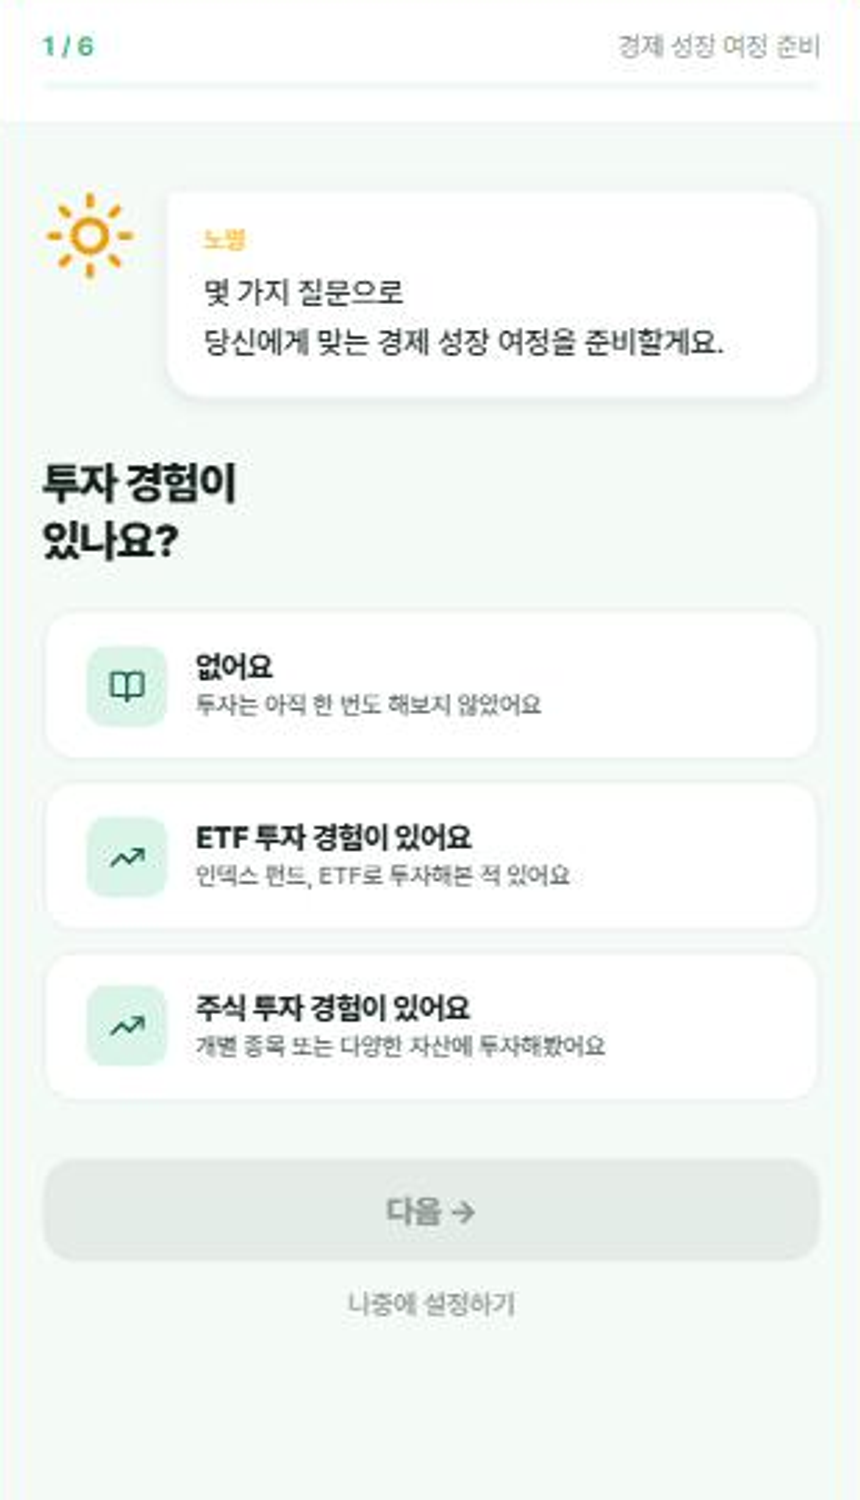
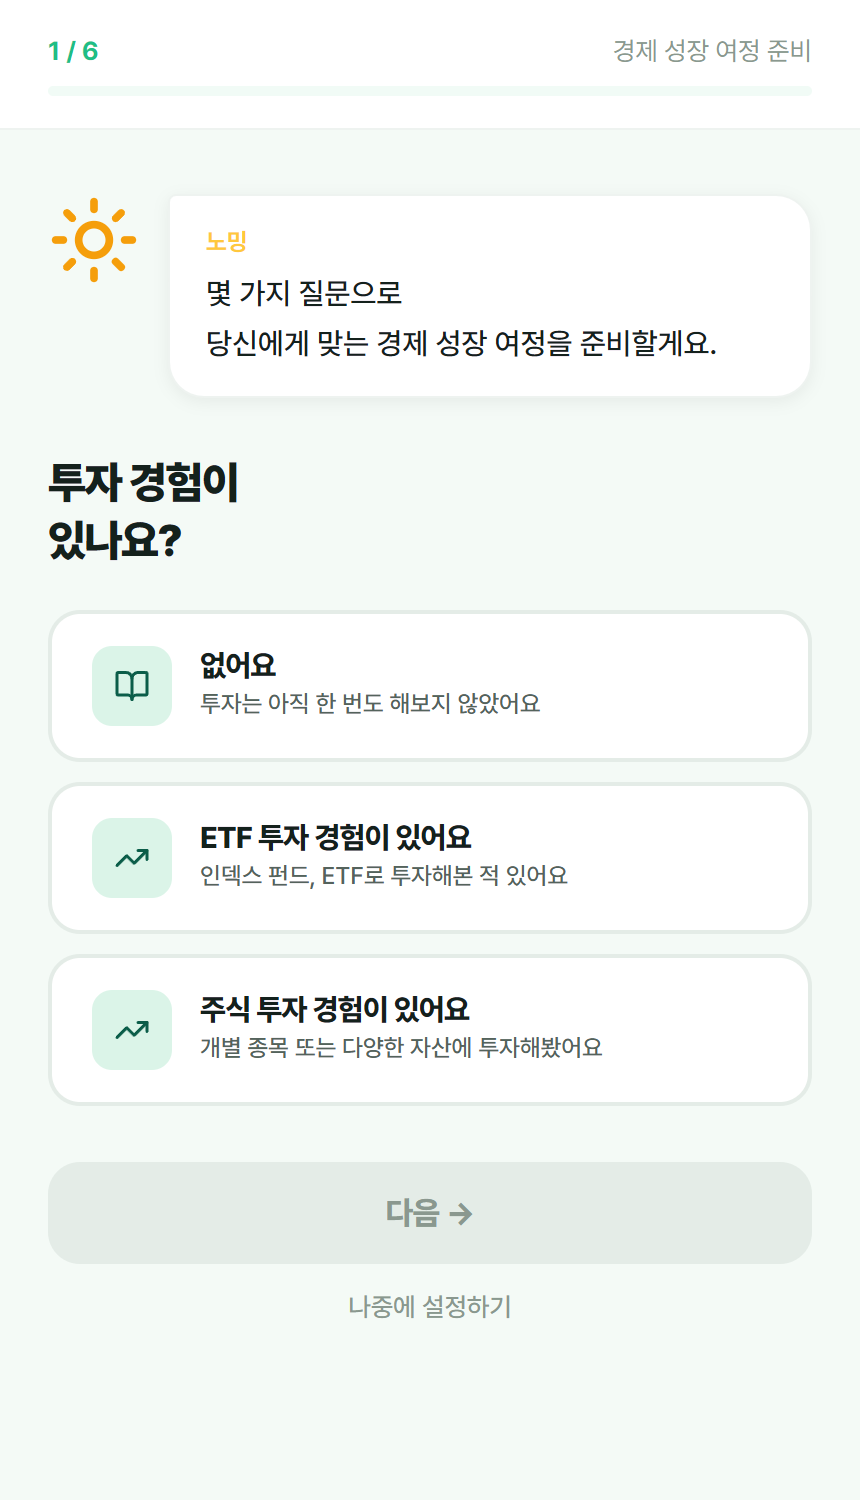
fix: 가이드 페이지 스크린샷 12장 재캡처 — 화질 저하 문제 해결
기존 캡처 파이프라인(iframe + 마젠타 트림 + 860x1500 리사이즈)이
트림 후 실제 크기가 목표 치수와 안 맞아 매번 미세하게 리샘플링되며
텍스트 가장자리가 심하게 번져 보이는 문제가 있었음.

chrome-devtools MCP의 emulate 도구(CDP 디바이스 메트릭 오버라이드)로
뷰포트 430x750, DPR 2를 직접 정확하게 걸어서 재캡처 — 리사이즈 없이
처음부터 860x1500 무손실로 나옴. 12장 전부 픽셀 치수 동일 확인,
확대 비교로 화질 개선 확인. 재발 방지를 위해 docs/guide-screenshots.md에
새 방법 기록.

diff --git a/docs/guide-screenshots.md b/docs/guide-screenshots.md
@@ -81,6 +81,20 @@ getComputedStyle(document.querySelector('.ds-app')).zoom    // 'normal' 또는 1
 **주의**: 한 번에 몰아서, 창을 리사이즈하지 않고 연속으로 찍을 것 — 화면마다 상태가
 달라지면 비교·재현이 어려워짐.
 
+### 2026-07-30 재작업 — 화질 문제 원인과 해결
+
+위 "마젠타 배경 + 트림 + 리사이즈" 방식으로 만든 12장이 확대해보면 글자 가장자리가
+심하게 번져 보이는 문제가 있었다(`sharp`로 잘라서 4배 확대해보면 확인 가능). 트림 후
+실제 크기가 860×1500과 정확히 안 맞아서 8단계의 리사이즈가 매번 미세하게 보간(resample)
+되며 화질이 깎인 것으로 보인다.
+
+**해결**: `chrome-devtools` MCP의 `emulate` 도구가 CDP `Emulation.setDeviceMetricsOverride`를
+그대로 노출한다 — `viewport: "430x750x2,mobile,touch"` 하나로 뷰포트·DPR·모바일 모드가
+전부 정확히 걸리고, `window.innerWidth === 430`이 실제로 성립한다(브라우저 확장의
+`resize_window`와 달리 신뢰 가능). 이러면 iframe도, 마젠타 트림도, 리사이즈도 필요 없이
+`take_screenshot`으로 찍은 결과가 처음부터 정확히 860×1500(430×750의 2배, 무손실)으로
+나온다. 이후로는 이 방식을 표준으로 쓴다 — 마젠타/트림/리사이즈 방식은 fallback으로만 기록.
+
 ---
 
 ## 2026-07-27~28 개편으로 바뀐 것
